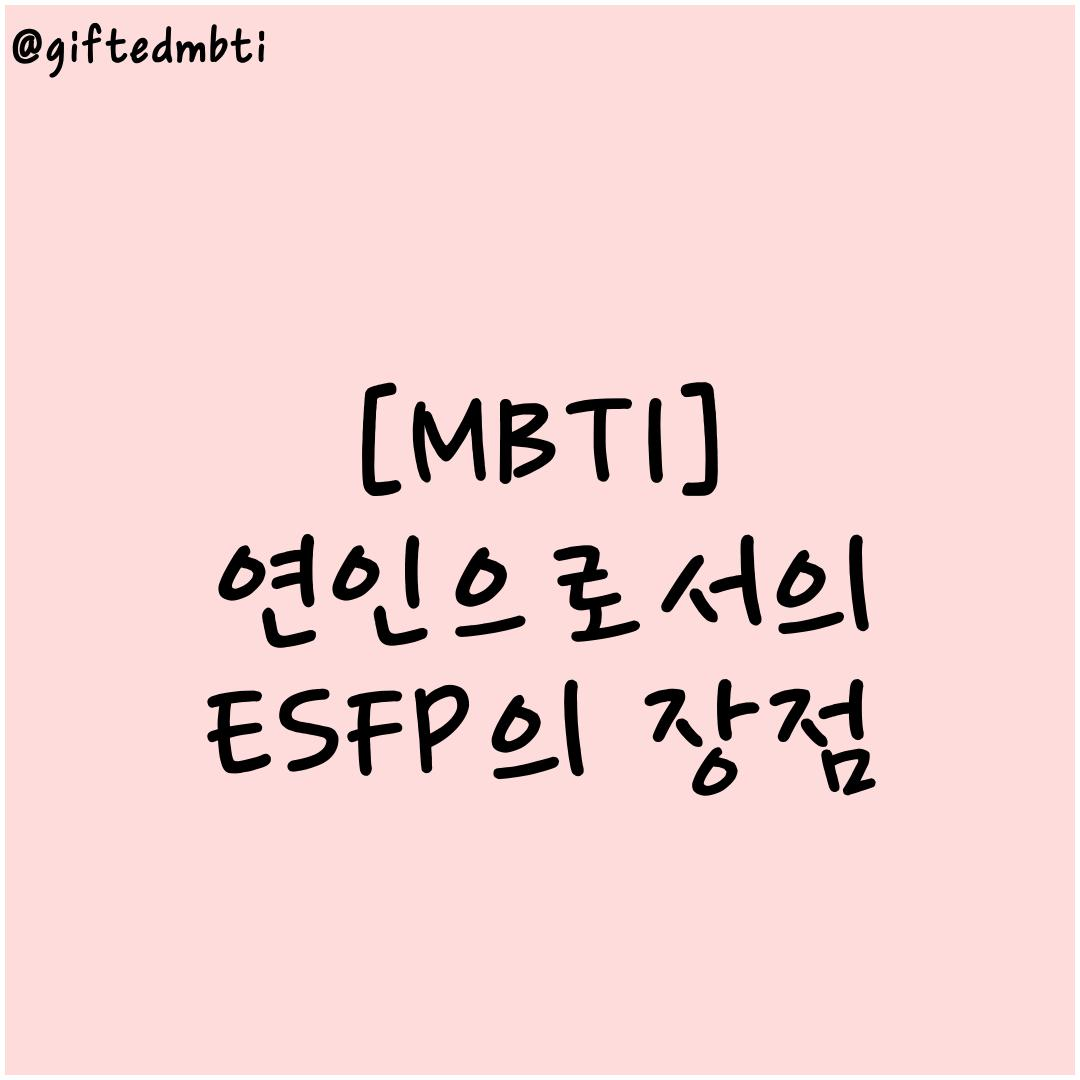
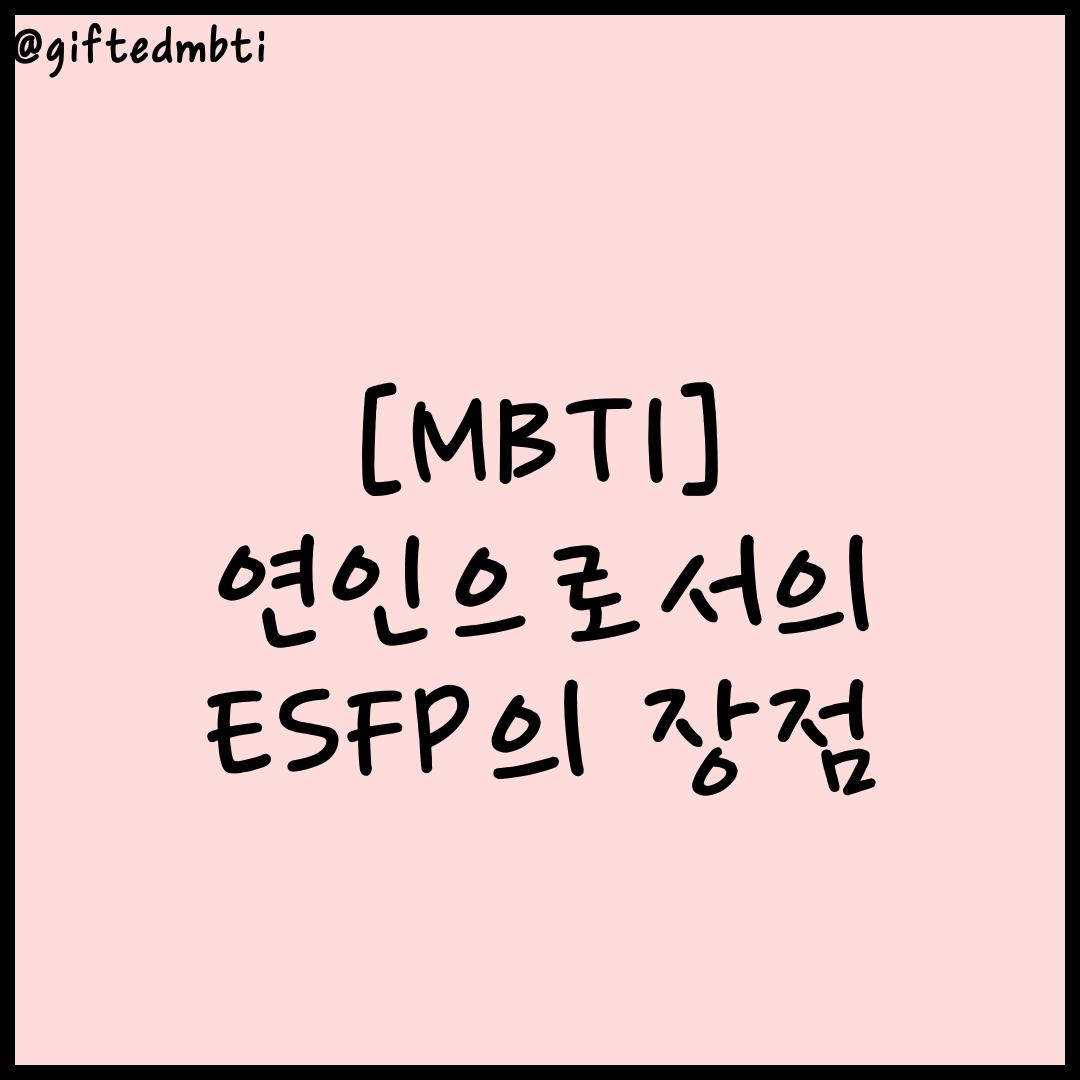
color added

Changed region(s): [[0.0, 0.0, 1.0, 1.0]]

diff --git a/config.py b/config.py
@@ -18,8 +18,9 @@ FONT_PATH = os.path.join(bundle_dir, 'THE소녀감성.ttf')
 
 IMAGE_SIZE = (1080, 1080)  # Instagram card news size
 BACKGROUND_COLOR = (255, 220, 220)  # 연한 핑크색
+# (255, 235, 235) 더 연한 핑크색
 TEXT_COLOR = (0, 0, 0)
-BORDER_COLOR = (0, 0, 0)
+BORDER_COLOR = (255, 255, 255)
 BORDER_WIDTH = 15
 
 # TITLE_CONSTANT

diff --git a/main.py b/main.py
@@ -51,7 +51,7 @@ def generate_mbti_string(mbti_type):
 
 
 if __name__ == "__main__":
-    test_url ="https://giftedmbti.tistory.com/159"
+    test_url ="https://giftedmbti.tistory.com/166"
     folder_name = generate_images(test_url)
     confirm_and_display(folder_name)
     generate_mbti_string("entj")

diff --git a/createTitleCardByInfo.py b/createTitleCardByInfo.py
@@ -23,7 +23,7 @@ def createTitleCardByInfo(BlogMetaInfo):
     size = IMAGE_SIZE
     background_color = BACKGROUND_COLOR
     font_path = FONT_PATH
-    min_font_size = 70
+    min_font_size = 80
     max_font_size = 150
     text_color = TEXT_COLOR
 
